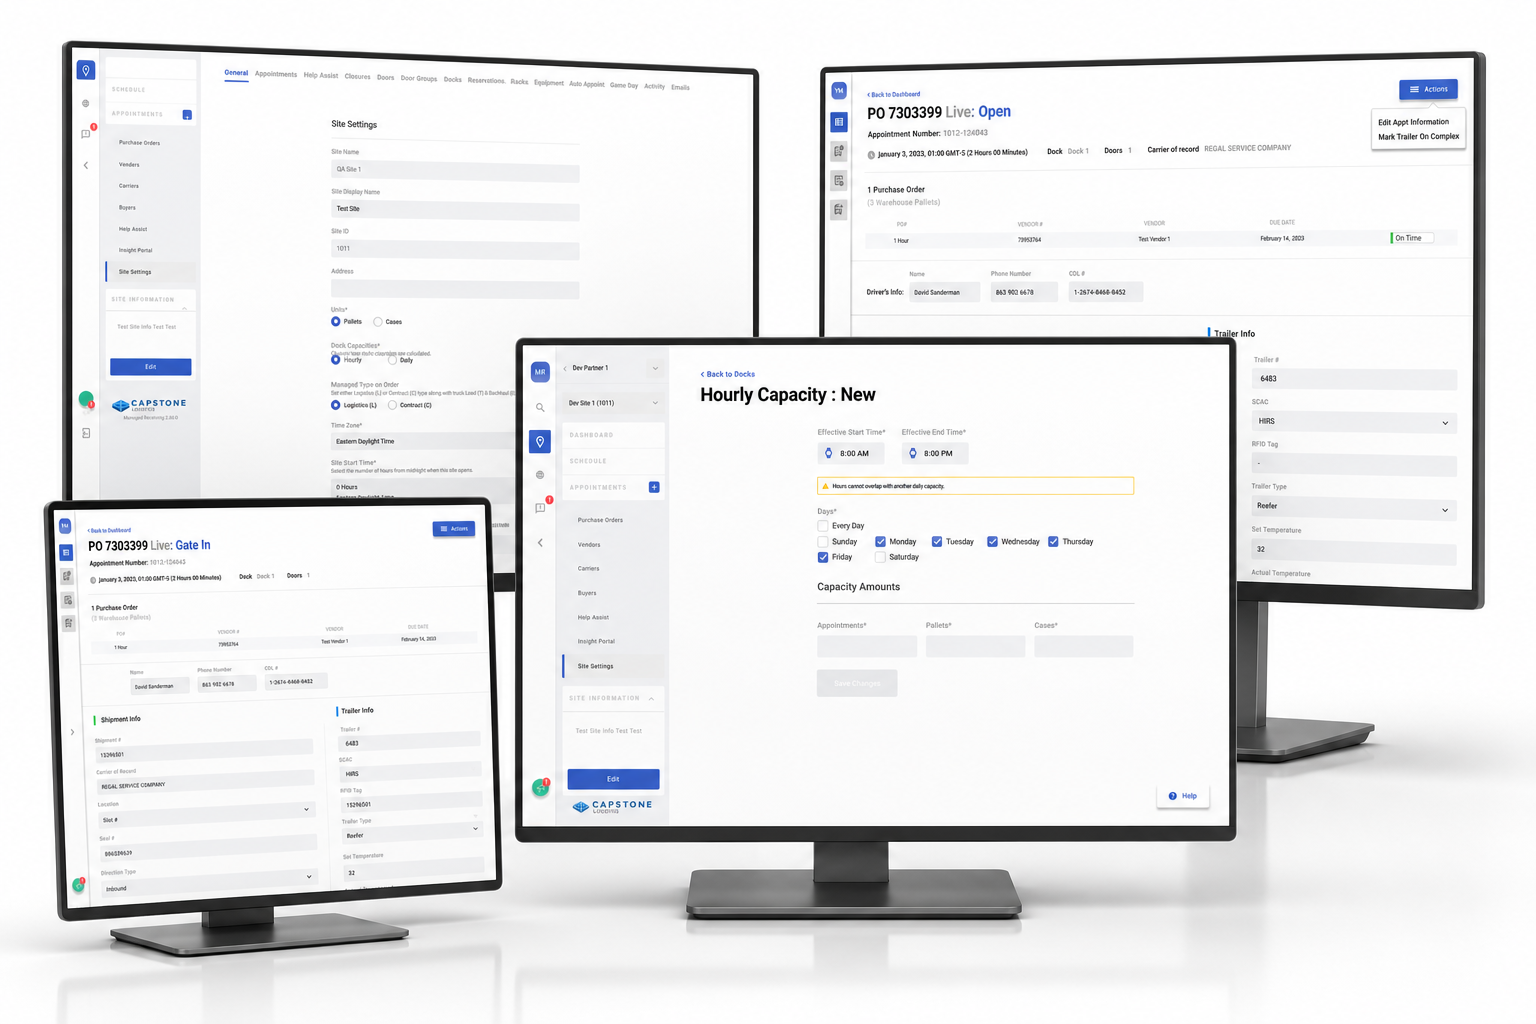
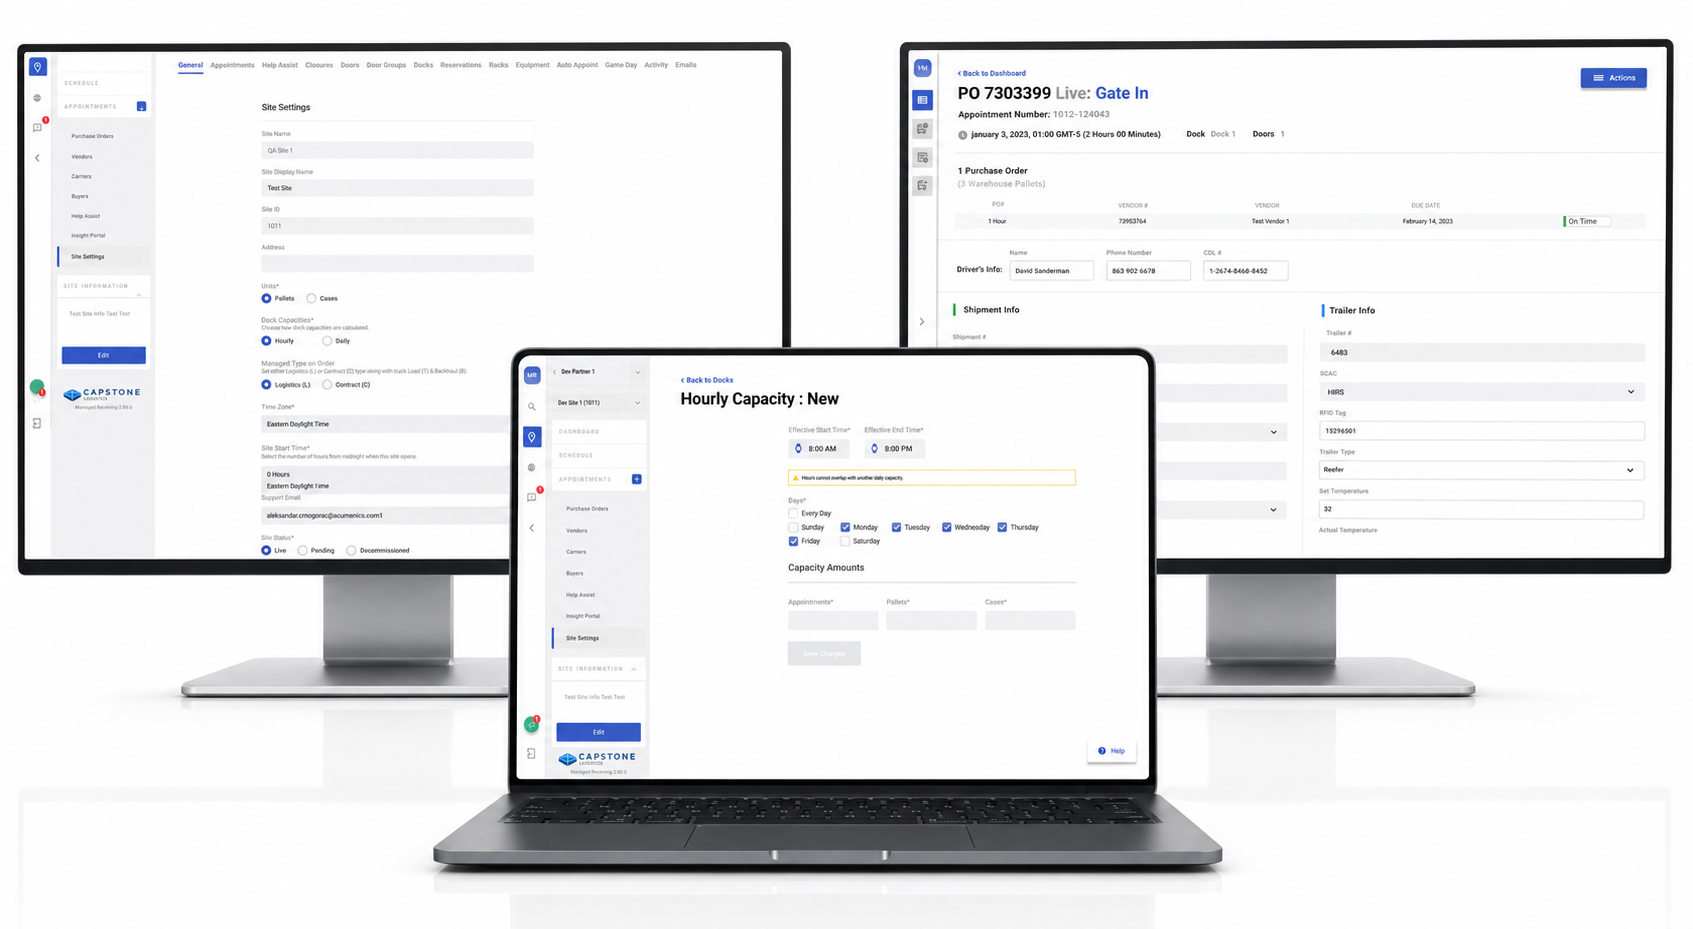
feat(case-studies): update Capstone and add Rain 4 Rent images
- Replace Capstone with optimized version (1348.9 KB → 1004.5 KB)
- Add Rain 4 Rent hero image (1483.9 KB)
- Update case-studies.js with correct image paths
- Both modals now display hero images

diff --git a/data/case-studies.js b/data/case-studies.js
@@ -289,7 +289,7 @@ const caseStudiesData = {
     role: { en: 'Lead UX Designer', es: 'Diseñador UX Líder' },
     client: { en: 'Improving (Mexico)', es: 'Improving (México)' },
     location: { en: 'Mexico', es: 'México' },
-    image: 'img/rain4rent-hero.jpg',
+    image: 'images/case-studies/rain4rent.png',
     sections: {
       en: [
         {
